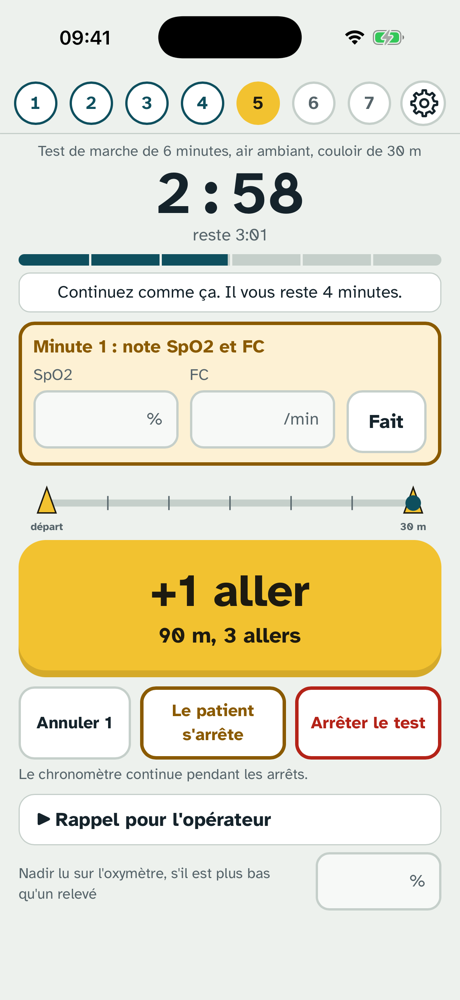
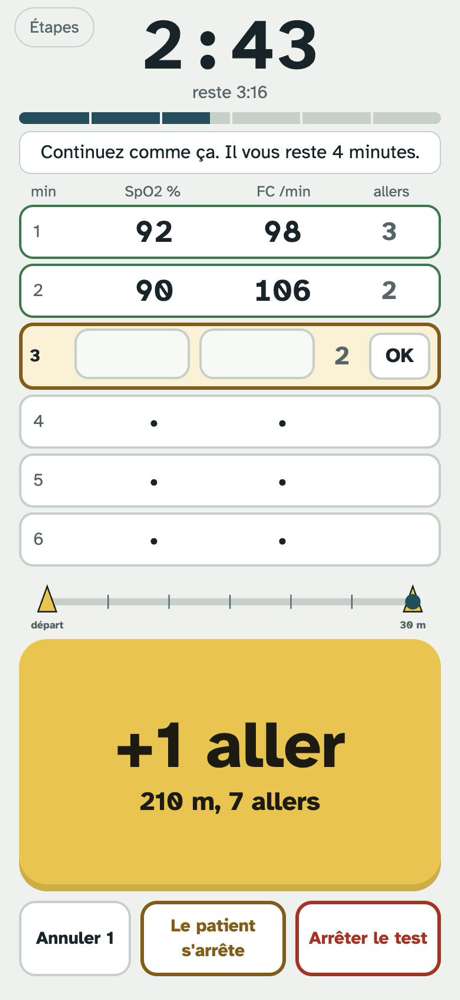
Écran du test : tableau des six minutes sur iPhone, bouton d'arrêt qui reste enfoncé, valeurs d'arrêt horodatées ; pourcentage de la théorique uniforme ; tutoriels et notes de version

diff --git a/index.html b/index.html
@@ -192,6 +192,7 @@ h1{font-size:28px;line-height:1.15;margin:20px 0 4px;text-wrap:balance}
 .mn b{display:block;font:700 17px var(--f-num);color:var(--fg)}
 .mn.due{border-color:var(--warn);background:var(--warn-soft);color:var(--warn)}
 .mn.ok{border-color:var(--ok)}
+.mn.on{outline:3px solid var(--warn);outline-offset:1px}
 .prompt{border:3px solid var(--warn);background:var(--warn-soft);border-radius:var(--r);padding:12px;margin-bottom:12px}
 .prompt h3{margin:0 0 8px;font-size:19px;color:var(--warn)}
 .prompt .grid2{grid-gap:10px}
@@ -205,6 +206,7 @@ h1{font-size:28px;line-height:1.15;margin:20px 0 4px;text-wrap:balance}
 .ctl button{border-radius:var(--r);font-weight:700;font-size:17px;min-height:64px;padding:8px}
 .b-undo{border:2px solid var(--line);background:var(--surface)}
 .b-pause{border:3px solid var(--warn);background:var(--surface);color:var(--warn)}
+.b-pause.on{background:var(--warn);color:#fff}
 .b-stop{border:3px solid var(--alert);background:var(--surface);color:var(--alert)}
 
 /* Panneaux pleine largeur (pause, arrêt, minute) */
@@ -439,7 +441,6 @@ h1{font-size:28px;line-height:1.15;margin:20px 0 4px;text-wrap:balance}
   .bar{margin:6px 0 2px;height:10px}
   .phrase{min-height:0;font-size:15px;margin:6px 0 8px;padding:6px 10px}
   .mn{min-height:44px;padding:3px 0}
-  #promptBox:not(:empty) + .minstrip{display:none}
   .prompt{padding:8px 10px;margin-bottom:8px}
   .prompt h3{font-size:16px;margin:0 0 4px}
   .prompt .row{margin-top:6px}
@@ -573,7 +574,6 @@ h1{font-size:28px;line-height:1.15;margin:20px 0 4px;text-wrap:balance}
   .minstrip{grid-template-columns:repeat(3,1fr);grid-gap:4px;margin-bottom:4px}
   .mn{min-height:34px;padding:1px 0;font-size:11px}
   .mn b{font-size:14px}
-  #promptBox:not(:empty) + .minstrip{display:none}
   .prompt{padding:6px 8px;margin-bottom:4px}
   .prompt h3{font-size:14px;margin:0 0 2px}
   .prow{grid-template-columns:minmax(0,1fr) minmax(0,1fr);grid-gap:6px}
@@ -640,6 +640,57 @@ h1{font-size:28px;line-height:1.15;margin:20px 0 4px;text-wrap:balance}
   .text{font-size:14px;padding:8px 10px}
   .vals th,.ix > b{font-size:13px}
   .vals td,.ix .v{font-size:14px}
+}
+.stepsbtn,.phoneonly,.mtab{display:none}
+@media (max-width:699px) and (orientation:portrait){
+  /* Test sur iPhone : l'écran entier au test ; lire en haut, toucher en bas (pouce) ; couloir gardé (repère du tour en cours) */
+  .phoneonly{display:block}
+  body[data-step="test"]:not(.showsteps) .top{display:none}
+  body[data-step="test"] .stepsbtn{display:block;position:absolute;top:calc(6px + env(safe-area-inset-top,0px));left:12px;z-index:6;min-height:34px;padding:4px 12px;font-size:14px;border-radius:17px;border:1px solid var(--line);background:var(--bg);color:var(--muted)}
+  body[data-step="test"].showsteps .stepsbtn{display:none}
+  body[data-step="test"]:not(.showsteps) main{padding-top:calc(8px + env(safe-area-inset-top,0px))}
+  body[data-step="test"].showsteps .cols.test{min-height:calc(100vh - 90px - env(safe-area-inset-top,0px) - env(safe-area-inset-bottom,0px))}
+  .testinfo,#pinfo,.cols.test .guide,.cols.test .nadirrow{display:none}
+  .cols.test{display:-webkit-flex;display:flex;-webkit-flex-direction:column;flex-direction:column;min-height:calc(100vh - 24px - env(safe-area-inset-top,0px) - env(safe-area-inset-bottom,0px))}
+  .cols.test > .col:nth-child(2){-webkit-flex:1 1 auto;flex:1 1 auto;display:-webkit-flex;display:flex;-webkit-flex-direction:column;flex-direction:column;-webkit-order:3;order:3}
+  .cols.test > .col:nth-child(3){-webkit-order:2;order:2}
+  .cols.test .lap{-webkit-flex:1 1 auto;flex:1 1 auto;min-height:180px}
+  .cols.test .lap .p{font-size:56px}
+  .cols.test .lap .d{font-size:22px}
+  .clock{text-align:center;margin-top:0}
+  .clock .t{font-size:84px;line-height:1}
+  .clock .r{font-size:17px}
+  .phrase{font-size:18px;padding:8px 10px}
+  .minstrip{grid-gap:4px}
+  .mn{min-height:34px;font-size:11px;padding:1px 0}
+  .mn b{font-size:15px}
+  .prompt h3{font-size:18px}
+  .prompt input{font-size:28px}
+  .cols.test .ctl{margin-bottom:4px}
+  .clock .t{font-size:60px}
+  .clock .r{font-size:15px}
+  .phrase{font-size:16px;padding:6px 10px;margin:6px 0}
+  #promptBox,.minstrip{display:none}
+  .mtab{display:block;margin:2px 0 6px}
+  .mh,.mrow{display:grid;grid-template-columns:44px 1fr 1fr 64px;-webkit-align-items:center;align-items:center;grid-gap:8px;width:100%}
+  .mh{font-size:13px;color:var(--muted);padding:0 10px 2px;text-align:center}
+  .mh span:first-child{text-align:left}
+  .mrow{min-height:46px;margin:0 0 4px;padding:0 10px;border:2px solid var(--line);border-radius:12px;background:var(--surface);text-align:center;font:inherit;color:var(--fg)}
+  button.mrow{-webkit-appearance:none;appearance:none}
+  .mrow .mm{font-size:15px;color:var(--muted);text-align:left}
+  .mrow b{font:700 26px/1 var(--f-num);font-variant-numeric:tabular-nums}
+  .mrow b.bad{color:var(--alert)}
+  .mrow .ml{font:700 22px/1 var(--f-num);color:var(--muted)}
+  .mrow.due{border-color:var(--warn);background:var(--warn-soft)}
+  .mrow.ok{border-color:var(--ok)}
+  .mrow.cur .mm{font-weight:700;color:var(--fg)}
+  .mrow .mm i{display:block;font:italic 11px/1 var(--f-body);color:var(--warn)}
+  .mrow.on{border:3px solid var(--warn);background:var(--warn-soft);grid-template-columns:30px 1fr 1fr 30px 52px;min-height:46px;padding:2px 6px}
+  .mrow.on .f > span:first-child{display:none}
+  .mrow.on .f .box{padding:0 8px}
+  .mrow.on .f input{font-size:30px;padding:3px 0;text-align:center}
+  .mok{min-height:40px;border-radius:10px;border:2px solid var(--line);background:var(--surface);font-weight:700}
+  .cols.test .lap{min-height:130px}
 }
 @media (prefers-reduced-motion:reduce){*{transition:none!important;animation:none!important}}
 </style></head><body>
@@ -1035,11 +1086,11 @@ var SCREENS = {
     $('next').style.display = 'none';
     if (!S.started) return '<h1>Test</h1><div class="card"><p>' + LG('Le test n\'a pas commencé.', 'The test has not started.') + '</p><button type="button" class="big" style="width:100%" data-go="pret">' + LG('Aller au départ', 'Go to the start') + '</button></div>';
     var ticks = ''; for (var m = 1; m < 6; m++) ticks += '<em style="left:' + (m / 6 * 100) + '%"></em>';
-    return '<p class="testinfo">' + examLabel() + ', ' + o2Lc() + LG(', couloir de ' + corridor() + ' m', ', ' + corridor() + ' m corridor') + departTxt() + '</p>' +
+    return '<button type="button" class="stepsbtn" id="stepsBtn">' + LG('Étapes', 'Steps') + '</button><p class="testinfo">' + examLabel() + ', ' + o2Lc() + LG(', couloir de ' + corridor() + ' m', ', ' + corridor() + ' m corridor') + departTxt() + '</p>' +
       '<div class="cols test"><div class="col"><div class="clock"><div class="t" id="clk">0:00</div><div class="r" id="rem"></div></div>' +
       '<div class="bar"><b id="prog" style="width:0"></b>' + ticks + '</div>' +
       '<div id="alertBox"></div><div class="phrase" id="phrase">' + esc(S.lastPhrase || LG('Départ. Marchez aussi loin que possible pendant 6 minutes.', 'Start. Walk as far as possible for 6 minutes.')) + '</div>' +
-      '<div id="promptBox"></div><div class="minstrip" id="minstrip"></div></div><div class="col">' +
+      '<div id="promptBox"></div><div class="minstrip" id="minstrip"></div><div class="mtab" id="mtab"></div></div><div class="col">' +
       '<div class="track" id="track"></div><button type="button" class="lap' + (S.running || S.stop ? '' : ' disabled') + '" id="lapBtn"><span class="p">' + LG('+1 aller', '+1 length') + '</span><span class="d" id="lapD">' + LG('0 m · 0 aller', '0 m, 0 lengths') + '</span></button>' +
       '<div class="ctl"><button type="button" class="b-undo" id="undoBtn">' + LG('Annuler 1', 'Undo 1') + '</button>' +
       '<button type="button" class="b-pause' + (S.running ? '' : ' disabled') + '" id="pauseBtn">' + LG('Le patient s\'arrête', 'Patient stops') + '</button>' +
@@ -1059,6 +1110,7 @@ var SCREENS = {
       '<div class="rtabs"><span class="rtstop">' + stopTxt + '</span><span class="rtclk" id="rtClk"></span>' + [LG('Arrêt', 'End'), LG('Borg, symptômes', 'Borg, symptoms'), LG('Récupération', 'Recovery')].map(function (t, i) { return '<button type="button" class="rtab' + ((S.rpane || 0) === i ? ' on' : '') + '" data-rpane="' + i + '">' + t + '</button>'; }).join('') + '</div>' +
       '<div class="cols rcp" data-pane="' + (S.rpane || 0) + '"><div class="col"><div class="rec"><div class="rt" id="rt1"><span>' + LG('Récupération', 'Recovery') + '</span><b id="recClk">0:00</b></div><div class="rt" id="rt3"><span id="recLbl">' + LG('Relevé à 1 min dans', 'Reading at 1 min in') + '</span><b id="recNext">1:00</b></div></div>' +
       '<div class="card"><h2>' + LG('À l\'arrêt', 'At the end') + '</h2><div class="grid2">' + field('end.spo2', 'SpO2', '%') + field('end.fc', LG('FC', 'HR'), '/min') + field('end.pas', LG('PAS', 'SBP'), 'mmHg') + field('end.pad', LG('PAD', 'DBP'), 'mmHg') + '</div>' +
+      '<div class="nadirrow phoneonly">' + field('nadir', LG('Nadir lu sur l\'oxymètre, s\'il est plus bas qu\'un relevé', 'Nadir read on the oximeter, if lower than a reading'), '%') + '</div>' +
       '<div style="height:12px"></div><div class="f"><span>' + (nLaps() === 0 && depart() ? LG('Mètres depuis la ligne de départ', 'Metres from the starting line') : LG('Mètres depuis le dernier plot', 'Metres from the last cone')) + LG(' : ', ': ') + '<b id="partV">' + (S.end.partiel || 0) + ' m</b></span>' +
       '<input class="slider" type="range" min="0" max="' + partMax() + '" step="1" value="' + (S.end.partiel || 0) + '" data-k="end.partiel"></div>' + flags('recup') + '</div></div><div class="col">' +
       '<div class="card"><h2>' + LG('Borg à la fin', 'Borg at the end') + '</h2>' + borg('end.bd', LG('Dyspnée', 'Dyspnoea')) + borg('end.bf', 'Fatigue') + '</div>' +
@@ -1072,7 +1124,7 @@ var SCREENS = {
     if (!S.stop) return '<h1>' + LG('Bilan', 'Results') + '</h1><div class="card"><p>' + LG('Le bilan apparaît une fois le test terminé.', 'The results appear once the test is finished.') + '</p></div>';
     var A = analysis();
     var k = '<div class="kpis">' +
-      kpi(Math.round(A.dist) + ' m', A.pr ? A.pct + LG(' % de la théorique, LIN ', '% of predicted, LLN ') + A.pr.lin + ' m' : LG('pas de valeur théorique', 'no predicted value'), A.pr && A.dist < A.pr.lin) +
+      kpi(Math.round(A.dist) + ' m', A.pr ? A.pct + LG(' % de la valeur théorique (', '% of predicted value (') + A.pr.p + LG(' m ; LIN ', ' m; LLN ') + A.pr.lin + ' m)' : LG('pas de valeur théorique', 'no predicted value'), A.pr && A.dist < A.pr.lin) +
       kpi(isNaN(A.nadir) ? '—' : A.nadir + ' %', LG('SpO2 la plus basse', 'Lowest SpO2') + (isNaN(A.desat) ? '' : LG(', baisse de ', ', fall of ') + A.desat + ' points'), A.desat >= 4) +
       kpi(isNaN(A.fPeak) ? '—' : A.fPeak + '/min', LG('FC la plus haute', 'Highest HR') + (isNaN(A.pFmt) ? '' : ', ' + A.pFmt + LG(' % de la FMT', '% of predicted max HR')), false) +
       kpi(isNaN(A.vWalk) ? '—' : fr1(A.vWalk) + ' km/h', LG('vitesse pendant la marche', 'walking speed'), false) + '</div>';
@@ -1202,7 +1254,7 @@ function analysis() {
   var bd0 = num(S.rest.bd), bd1 = num(S.end.bd), bf0 = num(S.rest.bf), bf1 = num(S.end.bf);
   var v = function (x, u) { return isNaN(x) ? null : x + (u || ''); };
   A.usual = [
-    ['Distance', Math.round(A.dist) + ' m', A.pr ? A.pct + LG(' % de la valeur théorique (Enright), LIN ', '% of predicted (Enright), LLN ') + A.pr.lin + ' m' : ''],
+    ['Distance', Math.round(A.dist) + ' m', A.pr ? A.pct + LG(' % de la valeur théorique (', '% of predicted value (') + A.pr.p + LG(' m ; LIN ', ' m; LLN ') + A.pr.lin + ' m)' : ''],
     [LG('Vitesse globale', 'Overall speed'), isNaN(A.vTot) ? null : fr1(A.vTot) + ' km/h', ''],
     [LG('Vitesse pendant la marche', 'Walking speed'), isNaN(A.vWalk) ? null : fr1(A.vWalk) + ' km/h', S.pauses.length ? S.pauses.length + LG(' arrêt', ' stop') + (S.pauses.length > 1 ? 's' : '') + ', ' + Math.round(pauseTotal()) + ' s' : LG('sans arrêt', 'no stops')],
     [LG('SpO2 repos, fin, nadir', 'SpO2 rest, end, nadir'), isNaN(A.sRest) ? null : A.sRest + ' %, ' + (isNaN(A.sEnd) ? '—' : A.sEnd + ' %') + ', ' + (isNaN(A.nadir) ? '—' : A.nadir + ' %'), isNaN(A.desat) ? '' : LG('baisse de ', 'fall of ') + A.desat + ' points'],
@@ -1267,7 +1319,7 @@ function figure(A) {
   var endM = S.stop.t / 60, xMax = Math.max(6, endM) + 3.4, W = 640, L = 64, R = 18, x = function (m) { return L + m / xMax * (W - L - R); };
   var lastMin = S.stop.t >= TEST ? 6 : Math.floor(S.stop.t / 60);
   var spts = [{ t: 0, v: A.sRest }], fpts = [{ t: 0, v: A.fRest }];
-  for (var m = 1; m <= lastMin; m++) if (S.mins[m]) { spts.push({ t: m, v: num(S.mins[m].s) }); fpts.push({ t: m, v: num(S.mins[m].f) }); }
+  for (var m = 1; m <= lastMin; m++) if (S.mins[m]) { var tm = S.mins[m].ts != null ? S.mins[m].ts / 60 : m; spts.push({ t: tm, v: num(S.mins[m].s) }); fpts.push({ t: tm, v: num(S.mins[m].f) }); }
   if (S.stop.t < TEST) { spts.push({ t: endM, v: num(S.end.spo2) }); fpts.push({ t: endM, v: num(S.end.fc) }); }
   // Mesures prises pendant les arrêts : placées à l'heure du début de l'arrêt.
   S.pauses.forEach(function (p) { if (ok(p.spo2)) spts.push({ t: p.s / 60, v: num(p.spo2) }); if (ok(p.fc)) fpts.push({ t: p.s / 60, v: num(p.fc) }); });
@@ -1330,6 +1382,7 @@ function demoFill() {
 function go(step) {
   if (step === 'test' && !S.started) step = 'pret';
   S.step = step; S.seen[step] = 1;
+  document.body.setAttribute('data-step', step); document.body.className = document.body.className.replace(/ ?showsteps/g, '');
   var h = SCREENS[step]();
   // Anglais : « 95% » sans espace (les valeurs mesurées restent dans des champs, non touchés).
   $('main').innerHTML = EN ? pctEN(h) : h;
@@ -1355,7 +1408,7 @@ function tick() {
     var due = []; for (var k in PHRASES) if (S.t >= +k && !S.fired[k]) due.push(+k);
     due.forEach(function (k, i) {
       S.fired[k] = 1;
-      if (k % 60 === 0) { var m = k / 60; if (!S.mins[m]) S.mins[m] = { s: '', f: '' }; S.mins[m].due = true; if (S.minOpen == null) S.minOpen = m; }
+      if (k % 60 === 0) { var m = k / 60; if (!S.mins[m]) S.mins[m] = { s: '', f: '' }; S.mins[m].due = true; if (!minTyping() && Date.now() - (S.minPick || 0) > 15000) S.minOpen = m; }
       if (i === due.length - 1) { if (k % 60 === 0) { beep(880, 0.2); haptic('minute'); } else beep(880, 0.15, 2); say(PHRASES[k]); }
     });
     if (S.t >= TEST) { finish(null); return; }
@@ -1393,6 +1446,26 @@ function checkSpo2(k, val) {
   if ($('alertBox')) $('alertBox').innerHTML = alertHtml();
   if (S.sheet === 'pause') pauseHint();
 }
+// La carte de la minute suit le chronomètre, sauf si l'opérateur est en train d'y écrire.
+function minTyping() { var a = document.activeElement, b = $('promptBox'); return !!(a && b && a.tagName === 'INPUT' && b.contains(a)); }
+// Une minute choisie à la main reste ouverte 15 s (temps réel) même si une nouvelle minute commence.
+// iPhone en portrait : tableau des six minutes (SpO2, FC, allers de la minute), saisie dans la ligne touchée.
+function phoneTab() { return !!(window.matchMedia && matchMedia('(max-width:699px) and (orientation:portrait)').matches); }
+function lapsIn(m) { var n = 0; S.laps.forEach(function (t) { if (t >= (m - 1) * 60 && t < m * 60) n++; }); return n; }
+function renderMtab() {
+  var tab = $('mtab'), cur = S.running ? Math.min(6, Math.floor(S.t / 60) + 1) : 0;
+  if (!tab.firstChild) tab.innerHTML = '<div class="mh"><span>min</span><span>SpO2 %</span><span>' + LG('FC /min', 'HR /min') + '</span><span>' + LG('allers', 'lengths') + '</span></div>' + [1, 2, 3, 4, 5, 6].map(function (m) { return '<div class="mrw" id="mrw' + m + '"></div>'; }).join('');
+  for (var m = 1; m <= 6; m++) {
+    var r = S.mins[m], el = $('mrw' + m), open = S.minOpen === m, nl = (S.started && (m <= cur || !S.running)) ? String(lapsIn(m)) : '';
+    var hasPz = S.pauses.some(function (p) { var e = p.e == null ? S.t : p.e; return e > (m - 1) * 60 && p.s < m * 60; });
+    var st = (open ? ' on' : '') + (m === cur ? ' cur' : '') + (hasPz ? ' pz' : '') + (r && ok(r.s) && ok(r.f) ? ' ok' : r && r.due ? ' due' : '');
+    var cell = function (k) { var b = S.bad[k] != null; var v = b ? S.bad[k] : get(k); return '<b class="' + (b ? 'bad' : '') + '">' + (v === '' || v == null ? '·' : esc(v)) + '</b>'; };
+    var h = open ? '<div class="mrow' + st + '"><span class="mm">' + m + (hasPz ? '<i>' + LG('arrêt', 'stop') + '</i>' : '') + '</span>' + field('mins.' + m + '.s', '', '') + field('mins.' + m + '.f', '', '') + '<span class="ml">' + nl + '</span><button type="button" class="mok" id="minDone">OK</button></div>'
+      : '<button type="button" class="mrow' + st + '" data-min="' + m + '"><span class="mm">' + m + (hasPz ? '<i>' + LG('arrêt', 'stop') + '</i>' : '') + '</span>' + cell('mins.' + m + '.s') + cell('mins.' + m + '.f') + '<span class="ml">' + nl + '</span></button>';
+    if (open && minTyping() && el.contains(document.activeElement)) { var c = el.firstChild; if (c) { c.className = 'mrow' + st; c.querySelector('.ml').textContent = nl; } continue; }
+    if (el.getAttribute('data-h') !== h) { el.innerHTML = h; el.setAttribute('data-h', h); }
+  }
+}
 function renderTest(light) {
   var t = S.t;
   if (!$('clk')) return;
@@ -1402,13 +1475,19 @@ function renderTest(light) {
   $('prog').style.width = (t / TEST * 100) + '%';
   $('lapD').textContent = cumDist(nLaps()) + ' m, ' + nLaps() + LG(' aller', ' length') + (nLaps() > 1 || (EN && nLaps() === 0) ? 's' : '') + (S.lapsLate ? LG(' (' + S.lapsLate + ' après la fin)', ' (' + S.lapsLate + ' after the end)') : '');
   renderTrack();
-  $('pauseBtn').textContent = paused() ? LG('Arrêt en cours…', 'Stopped…') : LG('Le patient s\'arrête', 'Patient stops');
+  var pz = paused() ? S.pauses[S.pauses.length - 1] : null;
+  $('pauseBtn').textContent = pz ? LG('Arrêt ', 'Stopped ') + mmss(S.t - pz.s) : LG('Le patient s\'arrête', 'Patient stops');
+  $('pauseBtn').className = 'b-pause' + (S.running ? '' : ' disabled') + (pz ? ' on' : '');
+  if (pz) { $('phrase').textContent = S.alert ? LG('Repos. SpO2 sous 85 % : attendre qu\'elle remonte.', 'Rest. SpO2 below 85%: wait for it to recover.') : LG('« ', '“') + PAUSE_PHRASE + LG(' » dans ', '” in ') + mmss(30 - (S.t - pz.s) % 30); }
   $('pinfo').textContent = (S.pauses.length ? S.pauses.length + LG(' arrêt', ' stop') + (S.pauses.length > 1 ? 's' : '') + ', ' + Math.round(pauseTotal()) + LG(' s au total. ', ' s in total. ') : '') + LG('Le chronomètre continue pendant les arrêts.', 'The timer keeps running during stops.');
   var strip = '';
   for (var m = 1; m <= 6; m++) {
-    var r = S.mins[m], st = !r ? '' : (ok(r.s) && ok(r.f) ? ' ok' : r.due ? ' due' : '');
+    var r = S.mins[m], st = (!r ? '' : (ok(r.s) && ok(r.f) ? ' ok' : r.due ? ' due' : '')) + (S.minOpen === m ? ' on' : '');
     strip += '<button type="button" class="mn' + st + '" data-min="' + m + '">' + m + ' min<b>' + (r && ok(r.s) ? r.s : '·') + '</b>' + (r && ok(r.f) ? r.f : '') + '</button>';
   }
+  var ph = phoneTab();
+  if (ph) { if ($('minstrip').innerHTML) $('minstrip').innerHTML = ''; if ($('promptBox').innerHTML) { $('promptBox').innerHTML = ''; $('promptBox').removeAttribute('data-m'); } renderMtab(); return; }
+  if ($('mtab').innerHTML) $('mtab').innerHTML = '';
   if ($('minstrip').innerHTML !== strip) $('minstrip').innerHTML = strip;
   var want = S.minOpen;
   var box = $('promptBox');
@@ -1522,7 +1601,7 @@ function openSettings() {
 /* ---------- Événements ---------- */
 document.addEventListener('input', function (e) {
   var k = e.target.getAttribute('data-k'); if (!k) return;
-  if (k.indexOf('mins.') === 0) { var m = k.split('.')[1]; if (!S.mins[m]) S.mins[m] = { s: '', f: '' }; }
+  if (k.indexOf('mins.') === 0) { var m = k.split('.')[1]; if (!S.mins[m]) S.mins[m] = { s: '', f: '' }; if (S.running && paused()) S.mins[m].ts = S.t; }
   var bad = implausible(k, e.target.value);
   if (bad) { S.bad[k] = e.target.value; set(k, ''); } else { delete S.bad[k]; set(k, e.target.value); }
   var lab = e.target.parentNode && e.target.parentNode.parentNode;
@@ -1572,7 +1651,7 @@ document.addEventListener('click', function (e) {
   var rp = b.getAttribute('data-rpane');
   if (rp != null) { S.rpane = +rp; go('recup'); return; }
   var mn = b.getAttribute('data-min');
-  if (mn) { if (!S.mins[mn]) S.mins[mn] = { s: '', f: '' }; S.minOpen = +mn; $('promptBox').innerHTML = ''; renderTest(); return; }
+  if (mn) { if (!S.mins[mn]) S.mins[mn] = { s: '', f: '' }; S.minOpen = +mn; S.minPick = Date.now(); $('promptBox').innerHTML = ''; renderTest(); if (phoneTab()) { var fi = document.querySelector('#mrw' + mn + ' input'); if (fi) fi.focus(); } return; }
   var sc = b.getAttribute('data-scale');
   if (sc) { openScale(sc); return; }
   var pk = b.getAttribute('data-pick');
@@ -1588,7 +1667,7 @@ document.addEventListener('click', function (e) {
       if (S.running) S.laps.push(S.t); else if (S.stop) S.lapsLate = (S.lapsLate || 0) + 1; else break;
       lastLapAt = Date.now(); beep(1200, 0.05); haptic('tap'); renderTest(); if (S.stop) go('test'); break;
     case 'undoBtn': if (S.lapsLate) S.lapsLate--; else if (S.laps.length) S.laps.pop(); else break; beep(300, 0.12, 2); haptic('undo'); renderTest(); break;
-    case 'pauseBtn': openPause(); break;
+    case 'pauseBtn': if (!S.running) break; if (paused()) { S.pauses[S.pauses.length - 1].e = S.t; S.alert = null; say(LG('Reprise de la marche.', 'Walking resumed.')); } else { S.pauses.push({ s: S.t, e: null, spo2: '', fc: '', pas: '', pad: '' }); say(PAUSE_PHRASE); beep(520, 0.2); } renderTest(); break;
     case 'o2Btn': openO2(); break;
     // Pendant un arrêt, la fenêtre d'oxygène revient au panneau d'arrêt (le patient n'est pas reparti).
     case 'o2No': closeSheet(); if (paused()) S.sheet = 'pause', renderPauseSheet(); break;
@@ -1599,8 +1678,9 @@ document.addEventListener('click', function (e) {
     case 'stopBtn': openStop(); break;
     case 'stopNo': closeSheet(); if (paused()) S.sheet = 'pause', renderPauseSheet(); break;
     case 'stopOk': if (S.motif) finish(S.motif); break;
+    case 'stepsBtn': document.body.className += ' showsteps'; break;
     case 'falseStart': if (S.running && S.t < 30) cancelStart(); break;
-    case 'minDone': var cur = S.minOpen; S.minOpen = null; for (var m = 1; m <= 6; m++) if (m !== cur && S.mins[m] && S.mins[m].due && !(ok(S.mins[m].s) && ok(S.mins[m].f))) { S.minOpen = m; break; } renderTest(); break;
+    case 'minDone': var cur = S.minOpen; S.minOpen = null; S.minPick = 0; for (var m = 1; m <= 6; m++) if (m !== cur && S.mins[m] && S.mins[m].due && !(ok(S.mins[m].s) && ok(S.mins[m].f))) { S.minOpen = m; break; } renderTest(); break;
     case 'gear': openSettings(); break;
     case 'cfgClose': closeSheet(); go(S.step); break;
     case 'demoBtn':
@@ -1707,7 +1787,7 @@ var Report = (function () {
       spo2Rec3: S.rec[3].spo2, fcRec3: S.rec[3].fc, taR3s: S.rec[3].pas, taR3d: S.rec[3].pad,
       borgD0: b(S.rest.bd), borgD1: b(S.end.bd), borgF0: b(S.rest.bf), borgF1: b(S.end.bf)
     };
-    for (let i = 1; i <= 6; i++) { const r = S.mins[i] || {}; V[`m${i}spo2`] = r.s || ''; V[`m${i}fc`] = r.f || ''; }
+    for (let i = 1; i <= 6; i++) { const r = S.mins[i] || {}; V[`m${i}spo2`] = r.s || ''; V[`m${i}fc`] = r.f || ''; V[`m${i}t`] = r.ts != null ? r.ts / 60 : ''; }
     S.rt.forEach((r, i) => { V[`rt${i + 1}d`] = r.d; V[`rt${i + 1}s`] = r.s; });
     o2changes = S.exam === 'titr' && S.o2 === 'o2' ? S.o2ch.map(c => ({ t: c.t, v: parseFloat(String(c.v).replace(',', '.')) })) : [];
   }
@@ -1771,7 +1851,7 @@ function pauseTotal() { return pauses.reduce((a, p) => a + ((p.e ?? elapsed()) -
 function series() {
   const pts = [], lastMin = endT >= TEST ? 6 : Math.floor(endT / 60);
   pts.push({ t: 0, s: num('m0spo2'), f: num('m0fc') });
-  for (let i = 1; i <= lastMin; i++) pts.push({ t: i, s: num(`m${i}spo2`), f: num(`m${i}fc`) });
+  for (let i = 1; i <= lastMin; i++) pts.push({ t: ok(num(`m${i}t`)) ? num(`m${i}t`) : i, s: num(`m${i}spo2`), f: num(`m${i}fc`) });
   if (endT < TEST) pts.push({ t: endT / 60, s: num('spo2End'), f: num('fcEnd'), end: true });
   else if (ok(num('spo2End')) || ok(num('fcEnd'))) { const p6 = pts[pts.length - 1]; if (!ok(p6.s)) p6.s = num('spo2End'); if (!ok(p6.f)) p6.f = num('fcEnd'); }
   const rec = { t: endT / 60 + 1, s: num('spo2Rec'), f: num('fcRec'), rec: true };
@@ -1887,8 +1967,7 @@ function buildBrief(c, desat) {
     out.push(`Titration de l'oxygène à l'effort${o2dev() ? ` (dispositif ${o2dev()})` : ''}${bits.length ? ' : ' + bits.join(' ; ') : ''}.`);
   }
   if (c.pr) {
-    out.push(`Distance parcourue de ${Math.round(c.dist)} m, soit ${c.pct} % de la valeur attendue : capacité de marche ${c.dist < c.pr.lin ? 'diminuée' : 'dans les limites de la normale'}.`);
-    if (c.pr.outOfRange) out.push("Âge hors de la population de référence des équations (40 à 80 ans).");
+    out.push(`Distance parcourue de ${Math.round(c.dist)} m, soit ${c.pct} % de la valeur théorique (${c.pr.p} m ; LIN ${c.pr.lin} m) : capacité de marche ${c.dist < c.pr.lin ? 'diminuée' : 'dans les limites de la normale'}.`);
   } else if (c.dist > 0) out.push(`Distance parcourue de ${Math.round(c.dist)} m.`);
   if (ok(c.sRest) && ok(c.nadir)) {
     const sous = o2 ? (o2dev() && !titr() ? ` sous oxygène pulsé (dispositif ${o2dev()})` : ' sous oxygène') : '';
@@ -1996,8 +2075,7 @@ function buildBriefEN(c, desat) {
     out.push(`Exertional oxygen titration${o2dev() ? ` (device ${o2dev()})` : ''}${bits.length ? ': ' + bits.join('; ') : ''}.`);
   }
   if (c.pr) {
-    out.push(`Distance walked ${Math.round(c.dist)} m, i.e. ${c.pct}% of the expected value: walking capacity ${c.dist < c.pr.lin ? 'reduced' : 'within normal limits'}.`);
-    if (c.pr.outOfRange) out.push('Age outside the reference population of the equations (40 to 80 years).');
+    out.push(`Distance walked ${Math.round(c.dist)} m, i.e. ${c.pct}% of the predicted value (${c.pr.p} m; LLN ${c.pr.lin} m): walking capacity ${c.dist < c.pr.lin ? 'reduced' : 'within normal limits'}.`);
   } else if (c.dist > 0) out.push(`Distance walked ${Math.round(c.dist)} m.`);
   if (ok(c.sRest) && ok(c.nadir)) {
     const on = o2 ? (o2dev() && !titr() ? ` on pulsed oxygen (device ${o2dev()})` : ' on oxygen') : '';
@@ -2270,13 +2348,13 @@ async function buildDocx() {
   const c = compute(), desat = ok(c.sRest) && ok(c.nadir) ? c.sRest - c.nadir : NaN, sp = speedStats(c.dist);
   const sy = symptoms();
   const perf = EN ? [
-    ['Distance', `${Math.round(c.dist)} m${c.pr ? `, i.e. ${c.pct}% of the predicted value (${c.pr.p} m; lower limit ${c.pr.lin} m)` : ', predicted value not calculated (age, height or weight missing)'}`],
+    ['Distance', `${Math.round(c.dist)} m${c.pr ? `, i.e. ${c.pct}% of the predicted value (${c.pr.p} m; LLN ${c.pr.lin} m)` : ', predicted value not calculated (age, height or weight missing)'}`],
     ['Speed', sp ? (pauses.length ? `${fr(sp.kmhTot)} km/h overall (${fr(sp.mTot)} m/min), ${fr(sp.kmhWalk)} km/h while walking (${fr(sp.mWalk)} m/min)` : `${fr(sp.kmhTot)} km/h (${fr(sp.mTot)} m/min), no stops`) : dash],
     ['Oxygenation', ok(c.nadir) ? `Nadir ${c.nadir}%, ${!ok(desat) ? 'desaturation not calculated (resting SpO2 missing)' : desat > 0 ? `desaturation of ${desat} point${desat > 1 ? 's' : ''}` : 'no desaturation'}` : dash],
     ['Course of the test', `${$('endStatus').textContent} ${pauses.length ? `${pauses.length === 1 ? 'One stop' : `${pauses.length} stops`}, ${Math.round(pauseTotal())} s in total.` : 'No stops.'}`],
     ['Limiting symptoms', sy.length ? sy.map(tv).join(', ') : 'none reported']
   ] : [
-    ['Distance', `${Math.round(c.dist)} m${c.pr ? `, soit ${c.pct} % de la valeur théorique (${c.pr.p} m ; limite inférieure ${c.pr.lin} m)` : ', valeur théorique non calculée (âge, taille ou poids manquant)'}`],
+    ['Distance', `${Math.round(c.dist)} m${c.pr ? `, soit ${c.pct} % de la valeur théorique (${c.pr.p} m ; LIN ${c.pr.lin} m)` : ', valeur théorique non calculée (âge, taille ou poids manquant)'}`],
     ['Vitesse', sp ? (pauses.length ? `${fr(sp.kmhTot)} km/h globale (${fr(sp.mTot)} m/min), ${fr(sp.kmhWalk)} km/h pendant la marche (${fr(sp.mWalk)} m/min)` : `${fr(sp.kmhTot)} km/h (${fr(sp.mTot)} m/min), sans arrêt`) : dash],
     ['Oxygénation', ok(c.nadir) ? `Nadir ${c.nadir} %, ${!ok(desat) ? 'désaturation non calculée (SpO2 de repos manquante)' : desat > 0 ? `désaturation de ${desat} point${desat > 1 ? 's' : ''}` : 'sans désaturation'}` : dash],
     ['Déroulement', `${$('endStatus').textContent} ${pauses.length ? `${pauses.length === 1 ? 'Un arrêt' : `${pauses.length} arrêts`}, ${Math.round(pauseTotal())} s au total.` : 'Aucun arrêt.'}`],

diff --git a/sw.js b/sw.js
@@ -1,6 +1,6 @@
 // Sans réseau : la page et ses fichiers viennent du cache. Avec réseau : le cache est servi tout de suite
 // et mis à jour en arrière-plan ; la nouvelle version s'affiche au lancement suivant.
-const CACHE = 'tm6-84f4abe57d';
+const CACHE = 'tm6-d0e24a35a2';
 const FILES = ['./', 'index.html', 'manifest.webmanifest', 'manifest-en.webmanifest', 'icon-180.png', 'icon-512.png', 'icon-en-180.png', 'icon-en-512.png',
   'AtkinsonHyperlegible-Regular.ttf', 'AtkinsonHyperlegible-Bold.ttf', 'AtkinsonHyperlegibleMono.ttf'];
 self.addEventListener('install', e => { e.waitUntil(caches.open(CACHE).then(c => c.addAll(FILES))); self.skipWaiting(); });

diff --git a/TUTORIEL.md b/TUTORIEL.md
@@ -57,14 +57,14 @@ L'écran affiche les consignes à lire au patient. Les trois cases (consignes lu
 Le chronomètre et le temps restant sont en haut, avec la phrase d'encouragement à dire au patient, qui change à chaque minute. À chaque passage du patient à un plot, on touche le grand bouton jaune **+1 aller** : l'heure de chaque passage sert à calculer la vitesse, et le couloir dessiné montre où se trouve le patient. « Annuler 1 » retire le dernier aller compté. Deux touchers à moins de 3 secondes d'intervalle ne comptent qu'un aller. Un aller oublié peut être ajouté après la fin du test : il compte dans la distance, pas dans la vitesse, puisque son heure est inconnue.
 
 <p>
-  <img src="captures/tutoriel/test1.png" alt="Écran du test : chronomètre, carte de la minute, couloir et bouton +1 aller" width="260">
+  <img src="captures/tutoriel/test1.png" alt="Écran du test : chronomètre, tableau des six minutes, couloir et bouton +1 aller" width="260">
   &nbsp;
-  <img src="captures/tutoriel/arret.png" alt="Panneau d'arrêt : durée de l'arrêt, phrase de reprise et mesures facultatives" width="260">
+  <img src="captures/tutoriel/arret.png" alt="Arrêt en cours : bouton enfoncé avec la durée de l'arrêt, phrase de reprise et décompte, relevé marqué « arrêt »" width="260">
 </p>
 
-À chaque minute, une carte demande la SpO2 et la FC lues sur l'oxymètre ; on les saisit puis on touche « Fait ». Les six cases de 1 à 6 minutes restent modifiables, et on peut les compléter plus tard. Une valeur improbable, faute de frappe par exemple (SpO2 hors de 50 à 100 %, FC hors de 30 à 220/min), s'affiche en rouge, n'entre dans aucun calcul et apparaît dans la liste « À compléter » du bilan ; il en va de même pour l'âge (18 à 100 ans), la taille (100 à 230 cm) et le poids (25 à 250 kg). Une SpO2 saisie sous 80 % déclenche une alerte d'arrêt de la marche, comme le prévoit la norme ERS/ATS de 2014.
+Sur iPhone, un tableau des six minutes occupe le milieu de l'écran : pour chaque minute, la SpO2 et la FC lues sur l'oxymètre, et le nombre d'allers parcourus pendant cette minute. La ligne de la minute à remplir s'ouvre d'elle-même ; on y saisit les deux valeurs puis on touche « OK ». On peut toucher n'importe quelle ligne pour la remplir ou la corriger, à tout moment, y compris plus tard. Sur iPad, une carte demande les mêmes valeurs à chaque minute, et les six cases de 1 à 6 minutes restent modifiables. Une valeur improbable, faute de frappe par exemple (SpO2 hors de 50 à 100 %, FC hors de 30 à 220/min), s'affiche en rouge, n'entre dans aucun calcul et apparaît dans la liste « À compléter » du bilan ; il en va de même pour l'âge (18 à 100 ans), la taille (100 à 230 cm) et le poids (25 à 250 kg). Une SpO2 saisie sous 80 % déclenche une alerte d'arrêt de la marche, comme le prévoit la norme ERS/ATS de 2014.
 
-Si le patient s'arrête, on touche « **Le patient s'arrête** ». Le panneau compte la durée de l'arrêt (le chronomètre du test continue), rappelle la phrase de reprise à dire toutes les 30 secondes une fois la SpO2 remontée à 85 %, et permet de noter des mesures facultatives. On touche ensuite « Le patient repart », ou « Il ne repartira pas : arrêter le test ». « Arrêter le test » interrompt le test pour une autre raison, avec un motif à choisir. Pendant les 30 premières secondes, ce même panneau propose « Faux départ » : le chronomètre revient à zéro, sans effacer le patient, les conditions ni le repos.
+Si le patient s'arrête, on touche « **Le patient s'arrête** ». Le bouton reste enfoncé et affiche la durée de l'arrêt (le chronomètre du test continue) ; la case de la phrase rappelle la phrase de reprise à dire toutes les 30 secondes une fois la SpO2 remontée à 85 %, avec le temps restant avant la prochaine. On continue à saisir la SpO2 et la FC dans le tableau, autant que nécessaire : une valeur saisie pendant l'arrêt garde son heure, et elle est placée à ce moment, dans la bande de l'arrêt, sur la figure du bilan et du compte rendu ; la ligne de la minute porte la mention « arrêt ». Quand le patient repart, on touche de nouveau le bouton. « Arrêter le test » interrompt le test, avec un motif à choisir, par exemple si le patient ne repartira pas. Pendant les 30 premières secondes, « Arrêter le test » propose aussi « Faux départ » : le chronomètre revient à zéro, sans effacer le patient, les conditions ni le repos.
 
 Le champ « Nadir lu sur l'oxymètre » sert à noter la SpO2 la plus basse affichée par l'oxymètre si elle est plus basse que les relevés de chaque minute.
 

diff --git a/TUTORIAL.md b/TUTORIAL.md
@@ -57,14 +57,14 @@ The screen shows the instructions to read to the patient. The three boxes (instr
 The timer and the time left are at the top, with the encouragement to say to the patient, which changes every minute. Each time the patient reaches a cone, tap the large yellow **+1 length** button: the time of each length is used to calculate speed, and the corridor drawing shows where the patient is. "Undo 1" removes the last length counted. Two taps less than 3 seconds apart count as a single length. A forgotten length can be added after the end of the test: it counts in the distance but not in the speed, since its time is unknown.
 
 <p>
-  <img src="captures/tutorial/test1.png" alt="Test screen: timer, minute card, corridor and +1 length button" width="260">
+  <img src="captures/tutorial/test1.png" alt="Test screen: timer, table of the six minutes, corridor and +1 length button" width="260">
   &nbsp;
-  <img src="captures/tutorial/arret.png" alt="Stop panel: stop duration, phrase to resume walking and optional measurements" width="260">
+  <img src="captures/tutorial/arret.png" alt="Stop in progress: button held down with the duration of the stop, phrase to resume walking with countdown, reading marked "stop"" width="260">
 </p>
 
-Every minute, a card asks for the SpO2 and HR read on the oximeter; enter them and tap "Done". The six boxes from 1 to 6 minutes remain editable, and can be completed later. An implausible value, a typing error for example (SpO2 outside 50 to 100%, HR outside 30 to 220/min), is shown in red, is left out of every calculation and appears in the "To complete" list of the results; the same applies to age (18 to 100 years), height (100 to 230 cm) and weight (25 to 250 kg). An SpO2 entered below 80% triggers an alert to stop walking, as set out in the ERS/ATS standard of 2014.
+On iPhone, a table of the six minutes fills the middle of the screen: for each minute, the SpO2 and HR read on the oximeter, and the number of lengths walked during that minute. The row of the minute to fill in opens on its own; enter both values there and tap "OK". Any row can be tapped to fill it in or correct it, at any time, including later. On iPad, a card asks for the same values every minute, and the six boxes from 1 to 6 minutes remain editable. An implausible value, a typing error for example (SpO2 outside 50 to 100%, HR outside 30 to 220/min), is shown in red, is left out of every calculation and appears in the "To complete" list of the results; the same applies to age (18 to 100 years), height (100 to 230 cm) and weight (25 to 250 kg). An SpO2 entered below 80% triggers an alert to stop walking, as set out in the ERS/ATS standard of 2014.
 
-If the patient stops, tap "**Patient stops**". The panel counts the duration of the stop (the test timer keeps running), recalls the phrase to say every 30 seconds once SpO2 is back to 85%, and allows optional measurements to be recorded. Then tap "Patient resumes walking", or "Will not resume: stop the test". "Stop the test" ends the test for another reason, with a reason to choose. During the first 30 seconds, the same panel offers "False start": the timer goes back to zero, without erasing the patient, the conditions or the rest values.
+If the patient stops, tap "**Patient stops**". The button stays pressed and shows the duration of the stop (the test timer keeps running); the phrase box recalls the phrase to say every 30 seconds once SpO2 is back to 85%, with the time left before the next one. Keep entering SpO2 and HR in the table, as often as needed: a value entered during the stop keeps its time, and it is placed at that moment, within the stop band, on the figure of the results and of the report; the row of the minute is marked "stop". When the patient walks on, tap the button again. "Stop the test" ends the test, with a reason to choose, for example if the patient will not resume. During the first 30 seconds, "Stop the test" also offers "False start": the timer goes back to zero, without erasing the patient, the conditions or the rest values.
 
 The "Nadir read on the oximeter" field records the lowest SpO2 shown by the oximeter if it is lower than the minute readings.
 

diff --git a/NOTES-DE-VERSION.md b/NOTES-DE-VERSION.md
@@ -2,6 +2,10 @@
 
 *[English](RELEASE-NOTES.md) · Français*
 
+## 23 novembre 2026 — écran du test
+
+Sur iPhone, l'écran du test montre un tableau des six minutes en gros chiffres : SpO2, FC et nombre d'allers de chaque minute. La ligne de la minute en cours s'ouvre d'elle-même, et on peut toucher n'importe quelle ligne pour la remplir ou la corriger ; une minute choisie à la main n'est plus reprise au changement de minute. Sur iPad, la carte de la minute suit de même le chronomètre, et les six minutes restent touchables. « Le patient s'arrête » ne fait plus apparaître de panneau : le bouton reste enfoncé et affiche la durée de l'arrêt, la case de la phrase donne la phrase de reprise et le temps restant avant de la redire, et on touche de nouveau le bouton quand le patient repart. Les SpO2 et FC saisies pendant un arrêt gardent leur heure et sont tracées à ce moment, dans la bande de l'arrêt, sur la figure du bilan et du compte rendu ; la ligne de la minute porte la mention « arrêt ». La distance est exprimée partout de la même façon : pourcentage de la valeur théorique, suivi de la valeur théorique et de la limite inférieure de la normale (LIN).
+
 ## 22 novembre 2026 — situations imprévues
 
 Corrections issues de scénarios d'usage hors du cadre prévu. Une valeur improbable (SpO2 hors de 50 à 100 %, FC hors de 30 à 220/min, âge hors de 18 à 100 ans, taille hors de 100 à 230 cm, poids hors de 25 à 250 kg) s'affiche en rouge, n'entre dans aucun calcul ni dans le compte rendu, et figure dans la liste « À compléter » ; auparavant, une SpO2 tapée 9 au lieu de 90 passait telle quelle dans la synthèse. La vitesse de démonstration du chronomètre revient à ×1 à chaque nouveau test et, sinon, est rappelée sur DÉPART et sur le chronomètre. « Remplir un test d'exemple » demande confirmation quand un test contient des données, et part d'un test vierge. Un aller oublié peut être ajouté après la fin (compté dans la distance, pas dans la vitesse) ; deux touchers à moins de 3 secondes ne comptent qu'un aller, et deux touchers rapides ne zooment plus la page. Une fois le test terminé, l'écran « Prêt au départ » propose « Nouveau test » à la place de DÉPART. Un test terminé est gardé jusqu'au « Nouveau test » suivant, au-delà de 12 heures. Pendant les 30 premières secondes, « Faux départ » remet le chronomètre à zéro sans effacer le patient ni le repos. Au retour d'une mise en veille ou d'un appel, un seul bip sonne pour les phrases manquées.

diff --git a/RELEASE-NOTES.md b/RELEASE-NOTES.md
@@ -2,6 +2,10 @@
 
 *English · [Français](NOTES-DE-VERSION.md)*
 
+## 23 November 2026 — test screen
+
+On iPhone, the test screen shows a table of the six minutes in large figures: SpO2, HR and number of lengths for each minute. The row of the current minute opens on its own, and any row can be tapped to fill it in or correct it; a minute picked by hand is no longer taken away when the minute changes. On iPad, the minute card likewise follows the timer, and all six minutes can be tapped. "Patient stops" no longer opens a panel: the button stays pressed and shows the duration of the stop, the phrase box gives the phrase to resume walking and the time left before saying it again, and the button is tapped again when the patient walks on. SpO2 and HR entered during a stop keep their time and are plotted at that moment, within the stop band, on the figure of the results and of the report; the row of the minute is marked "stop". Distance is expressed the same way everywhere: percentage of the predicted value, followed by the predicted value and the lower limit of normal (LLN).
+
 ## 22 November 2026 — unexpected situations
 
 Fixes drawn from use scenarios outside the planned path. An implausible value (SpO2 outside 50 to 100%, HR outside 30 to 220/min, age outside 18 to 100 years, height outside 100 to 230 cm, weight outside 25 to 250 kg) is shown in red, is left out of every calculation and of the report, and appears in the "To complete" list; previously, an SpO2 typed 9 instead of 90 went into the summary as it was. The demonstration timer speed returns to ×1 with each new test and, otherwise, is shown on START and on the timer. "Fill in a sample test" asks for confirmation when a test holds data, and starts from a blank test. A forgotten length can be added after the end (counted in the distance, not in the speed); two taps less than 3 seconds apart count as a single length, and two quick taps no longer zoom the page. Once the test is over, the "Ready to start" screen offers "New test" in place of START. A finished test is kept until the next "New test", beyond 12 hours. During the first 30 seconds, "False start" resets the timer without erasing the patient or the rest values. On returning from sleep or a phone call, a single beep sounds for the missed phrases.
